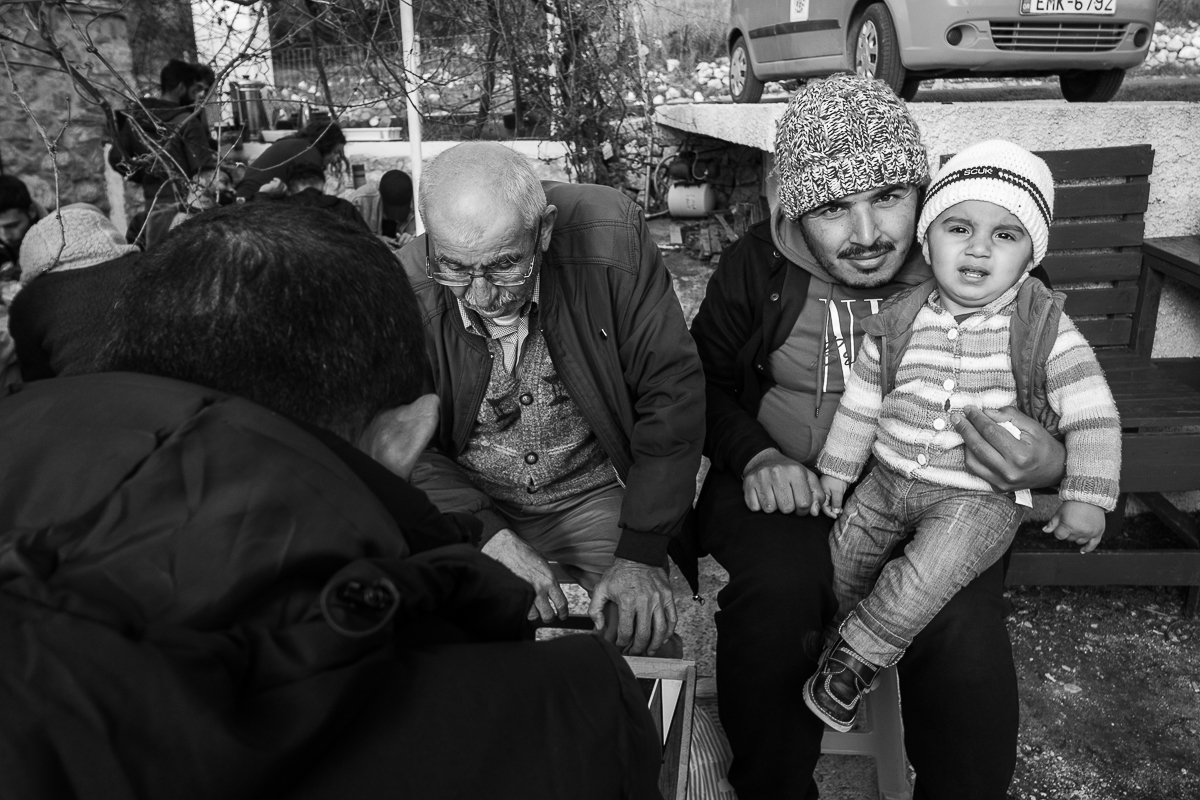
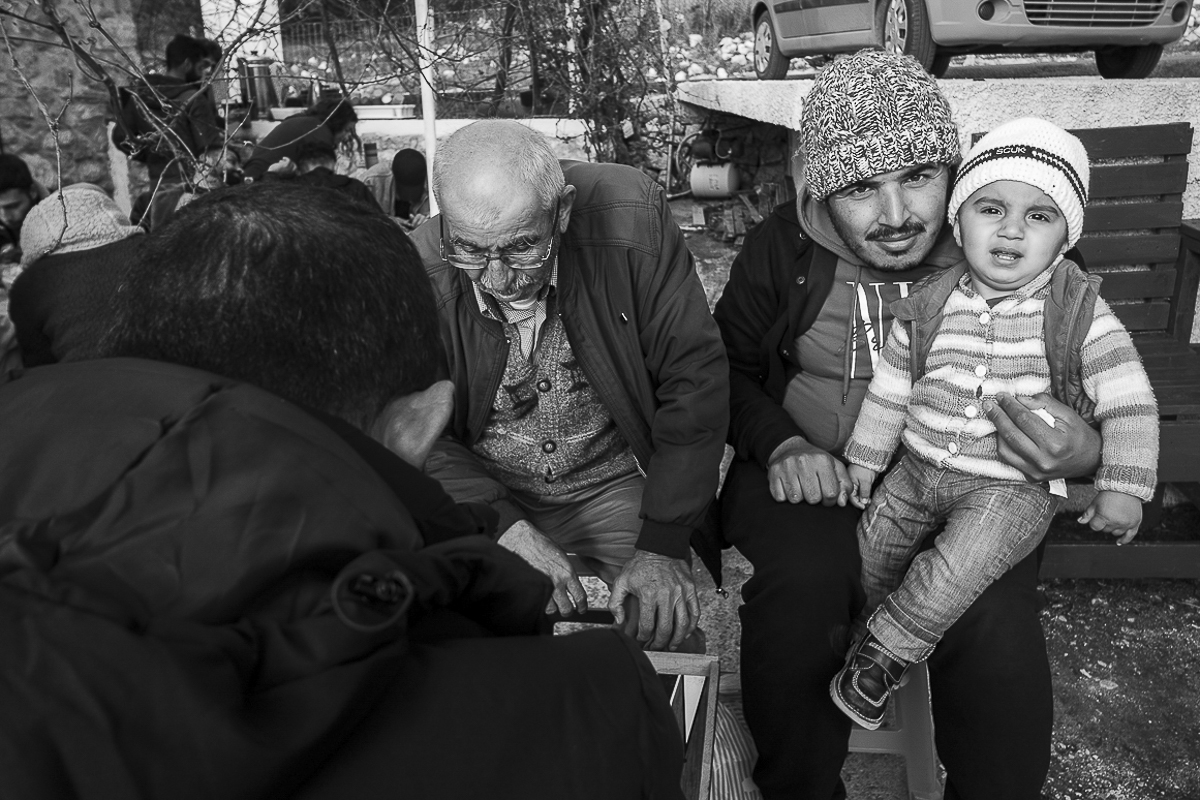
fix: various\n crop samos cover photo\n center homepageprojects for large screens

diff --git a/src/components/EssayImage.tsx b/src/components/EssayImage.tsx
@@ -22,7 +22,7 @@ export default function EssayImage({
 }: EssayImageProps) {
   return (
     <div className="w-full flex justify-center my-8 px-4">
-      <div className="w-full max-w-5xl">
+      <div className="w-full max-w-7xl">
         <div
           className={`relative w-full h-auto aspect-[3/2] ${onClick ? 'cursor-pointer' : ''}`}
           onClick={onClick}
@@ -37,7 +37,7 @@ export default function EssayImage({
           />
         </div>
         {caption && (
-          <p className="text-sm text-gray-400 dark:text-gray-300 italic text-center mt-2">
+          <p className="text-sm text-gray-500 italic text-center mt-2">
             {caption}
           </p>
         )}

diff --git a/src/app/page.tsx b/src/app/page.tsx
@@ -12,8 +12,10 @@ export default function Home() {
         </p>
       </div>
 
-      <div className="w-screen relative left-1/2 right-1/2 -mx-[50vw] px-4 sm:px-8 lg:px-16">
-        <HomePageProjects />
+      <div className="w-full px-4 sm:px-8 lg:px-16">
+        <div className="max-w-screen-xl mx-auto">
+          <HomePageProjects />
+        </div>
       </div>
 
       <div className="max-w-2xl mt-10 mb-8 mx-auto px-4">

diff --git a/src/components/PhotoEssayContent.tsx b/src/components/PhotoEssayContent.tsx
@@ -64,7 +64,7 @@ export default function PhotoEssayContent({
             data-testid="essay-cover-img"
             onClick={() => setLightboxIndex(0)}
           />
-          <p className="image-caption mb-4 text-center italic text-gray-500 text-sm mt-2 dark:text-white">
+          <p className="image-caption mb-4 text-center italic text-gray-500 text-sm mt-2">
             {cover.caption}
           </p>
         </div>
